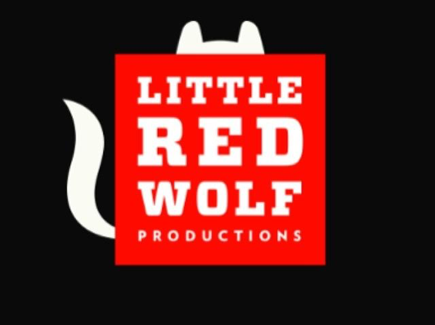
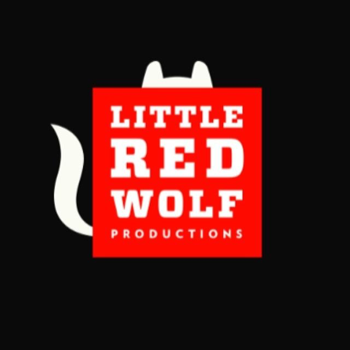
fixed slideshow

diff --git a/index.html b/index.html
@@ -19,7 +19,7 @@
 <nav class="top-nav">
 	<div class="nav-wrapper">
 		<div class="left-logo current">
-			<a href="#home"><img src="img/charley_logo.png">
+			<a href="#home"><img src="img/charley-logo1.png"></a>
 		</div>
 		<div class="right-nav-items">
 			<ul>
@@ -89,7 +89,7 @@
 			<li class="slider-item">
 			  	<div class="slider-content">
 			  		<h2>VIA Citrus</h2>
-			  		<p>So I'm from Florida. And one of the things we have in Florida are citrus trees&emdash;they're everywhere, they're fun, and everyone like them. You know what the rest of the country doesn't have? Citrus tree.</p>
+			  		<p>So I'm from Florida. And one of the things we have in Florida are citrus trees&mdash;they're everywhere, they're fun, and everyone like them. You know what the rest of the country doesn't have? Citrus tree.</p>
 			  		<p>My partners and I think that given a clean ordering experience and beautiful packaging, citrus tree deliveries will be the next craze in urban apartment gardening.</p>
 					<button>Site to Come</button>
 			  	</div>
@@ -100,6 +100,7 @@
 			  	<div class="slider-content">
 			  		<h2>Little Red Wolf Productions</h2>
 			  		<p>I started this media production company a while back, and it was one of my very first large-scale endeavors. I haven't really devoted too much time to it, but stay tuned and you might see some cool things.</p>
+			  		<button>Site to Come</button>
 			  	</div>
 			  	<img src="img/little_red_wolf_slide_image.png">
 			  </li>
@@ -107,7 +108,8 @@
 			  <li class="slider-item">
 			  	<div class="slider-content">
 			  		<h2>Quantic Fox</h2>
-			  		<p>This is an old one too&emdash;I started it way back in college and I think out tagline was "Quantic Fox is a mobile innovation studio comprised of creatives who eat, sleep and breathe new media" This is another one you'll see more of in the future.</p>
+			  		<p>This is an old one too&mdash;I started it way back in college and I think out tagline was "Quantic Fox is a mobile innovation studio comprised of creatives who eat, sleep and breathe new media" This is another one you'll see more of in the future.</p>
+			  		<button>Site to Come</button>
 			  	</div>
 			  	<img src="img/quanticfox_slide_image.png">
 			  </li>
@@ -122,11 +124,11 @@
 			<div class="team-card">
 				<img class="team-pic" src="img/danny.png">
 				<div class="team-card-content">
-					<h3>Danny Trujo</h3>
+					<h3>Danny Trejo</h3>
 					<p>Danny works alongside Ted Todd’s analytical, digital, and marketing teams to employ creative and ethical solutions to compelx problems. He likes traveling, hiking, and finding new places to eat in New York City.</p>
 					<div class="team-card-social-icons">
 						<a href="https://www.linkedin.com/in/danny-trejo-46513a2b" target="_blank"><img src="img/linkedin-stamp.png"></a>
-						<a href="https://twitter.com/charleytodd" target="_blank"><img src="img/twitter-stamp.png"></a>
+						<a href="https://twitter.com/dtrejo11" target="_blank"><img src="img/twitter-stamp.png"></a>
 					</div>
 				</div>
 			</div>
@@ -219,14 +221,13 @@
 		<div>
 			<ul>
 				<li>Charley</li>
-				<li>123.456.7890</li>
 				<li>charleytodd@me.com</li>
 			</ul>
 		</div>
 		<div>
 			<ul>
 				<li>Companies</li>
-				<li>tedtoddinsurance.com</li>
+				<a href="http://tedtoddinsurance.com/" target="_blank"><li>tedtoddinsurance.com</li></a>
 				<li>limeyoursdeliveryc.com</li>
 				<li>littleredwolf.com</li>
 				<li>quanticfox.com</li>

diff --git a/css/main.css b/css/main.css
@@ -224,24 +224,25 @@ section h1 {
 .my-slider {
 	background-color: #FFFFFF;
 	margin-bottom: 0px;
-	/*padding: 60px 40px;*/
+	padding: 60px 50px;
 	max-width: 1100px;
 }
 
 .slider-item {
 	display: flex;
-	justify-content: space-around;
+	justify-content: space-between;
+	align-items: center;
 	padding: 40px;
 }
 
 .slider-item img {
-	flex-grow: 1;
-	padding: 50px;
+	padding-right: 50px;
+    width: 300px;
+    height: 300px;
 }
 
 .slider-content {
-	max-width: 400px;
-	flex-grow: 2;
+	max-width: 500px;
 	padding: 0px 50px;
 }
 
@@ -252,12 +253,12 @@ section h1 {
 .card-container {
 	display: flex;
 	justify-content: center;
-	padding: 60px 0px;
+	padding: 50px 0px;
 	max-width: 1100px;
 }
 
 .team-card {
-	width: 250px;
+	width: 230px;
 	box-shadow: 0 2px 4px #A6A6A6;
 	background-color: #FFFFFF;
 	border-bottom: 10px solid #51EAC2;
@@ -283,7 +284,7 @@ section h1 {
 }
 
 .team-card-content p {
-	font-size: 14px;
+	font-size: 12px;
 	line-height: inherit;
 }
 
@@ -367,7 +368,7 @@ button {
 	background-color: #FFFFFF;
 	font-family: 'PT Sans', sans-serif;
 	font-weight: 700;
-	padding: 15px 107px;
+	padding: 15px 87px;
 	color: #5878DD;
 	transition: all ease .2s;
 }
@@ -376,6 +377,7 @@ button:hover {
 	color: #FFFFFF;
 	background-color: #5878DD;
 	font-weight: 400;
+	cursor: pointer;
 }
 
 /*label {
@@ -415,7 +417,7 @@ button:hover {
     	width: 100%;
     	position: absolute;
 		right: 0px;
-		top: 70px;
+		top: 65px;
 		background-color: #FFFFFF;
     }
 
@@ -429,7 +431,7 @@ button:hover {
 	}
 
 	section {
-    	padding: 16px 24px;
+    	padding: 10% 24px;;
     }
 
 	.about-me-wrapper {
@@ -452,7 +454,6 @@ button:hover {
 
 	.team-card {
 		margin: 20px 0px;
-    	width: 320px;
 	}
 
 	.form-content-container {
@@ -507,13 +508,20 @@ button:hover {
 	}
 
 	.my-slider h2 {
-		font-size: 36px;
+		font-size: 24px;
+	}
+
+	.my-slider p {
+		font-size: 12px;
+	}
+
+	.my-slider button {
+		padding: 15px 40px;
+		width: 100%;
 	}
 
 	.slider-item img {
-		flex-grow: 1;
-		width: 60%;
-    	padding: 20px 19%
+		display: none;
 	}
 
 	footer {
